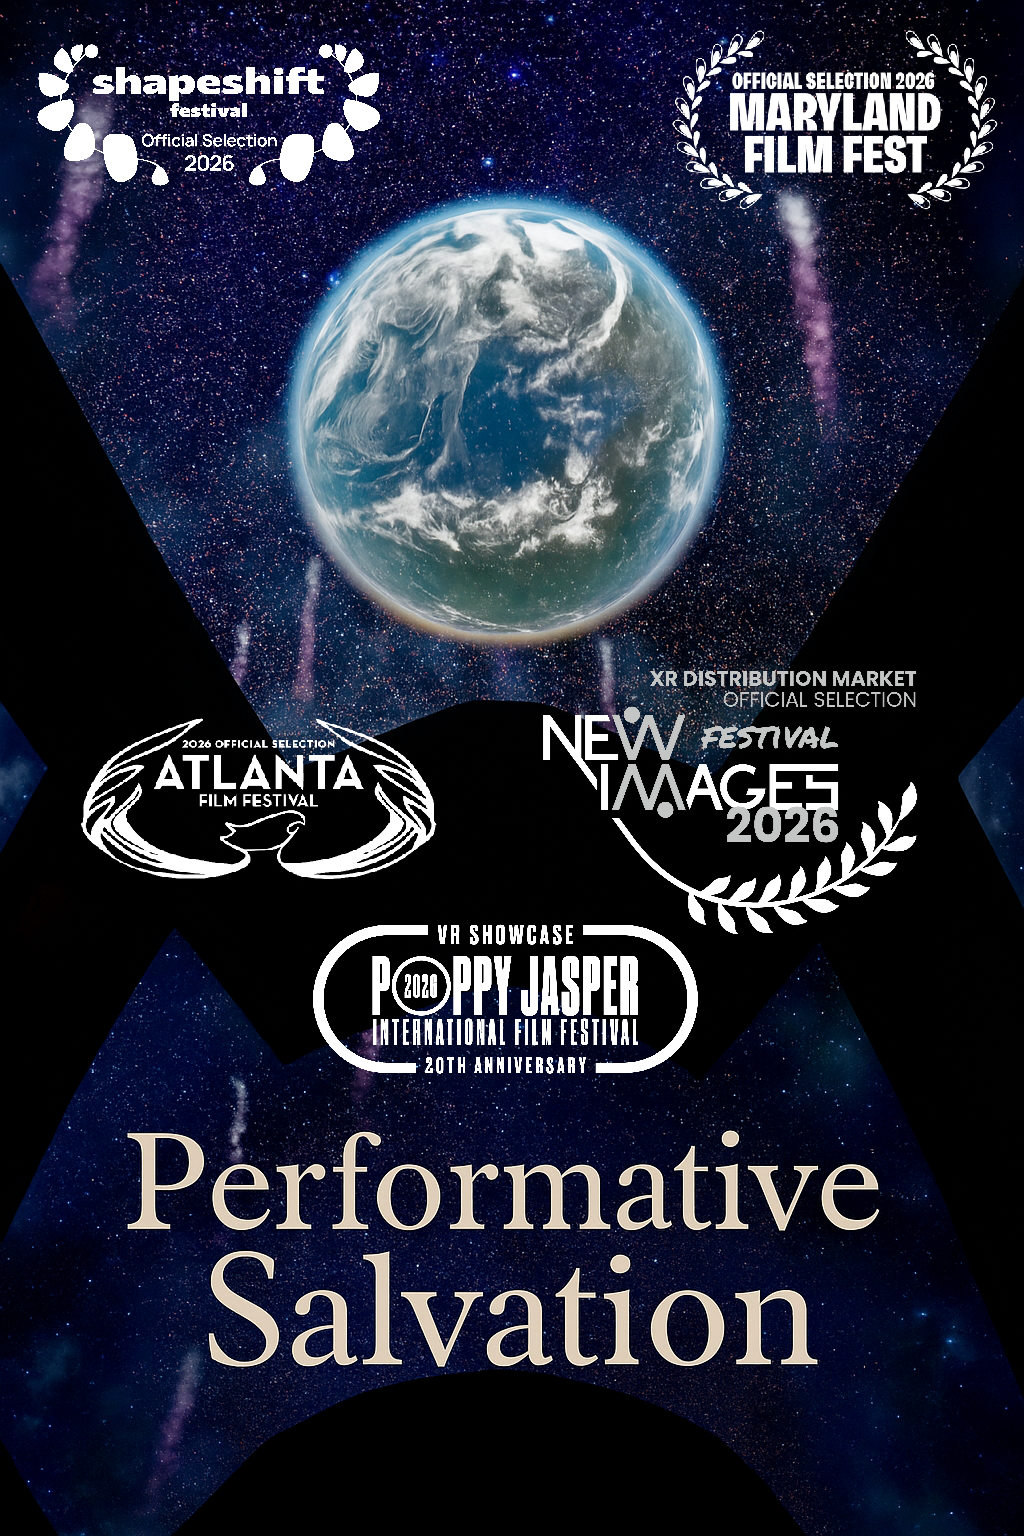
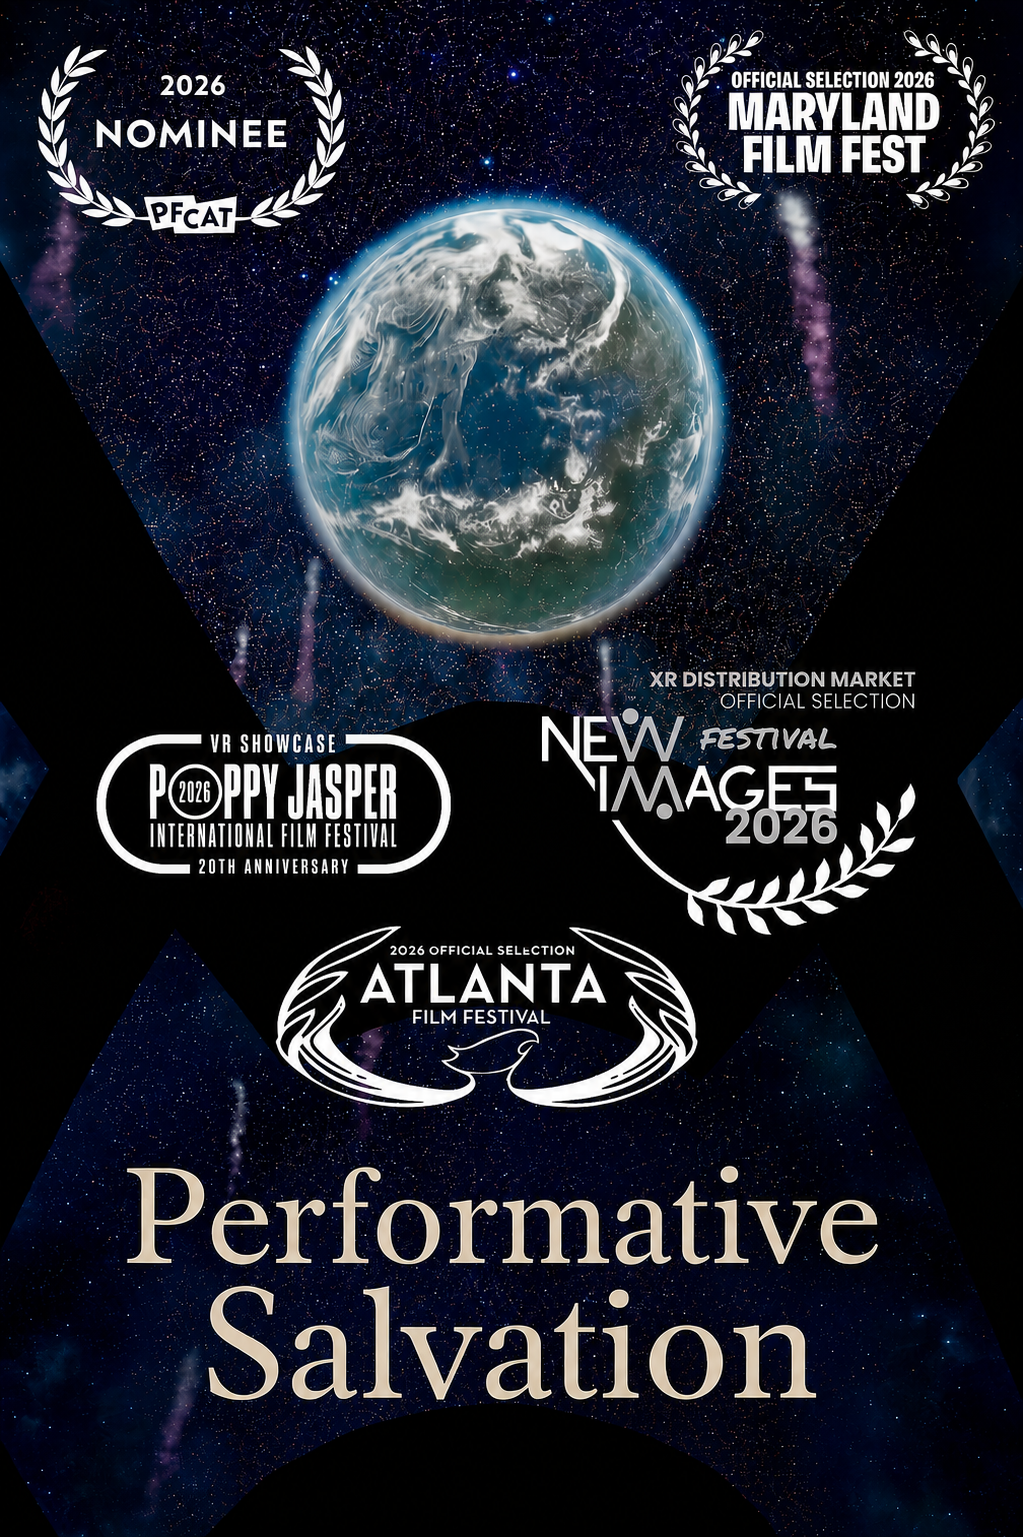
Add files via upload

Changed region(s): [[0.0303, 0.0, 0.9697, 1.0], [0.0, 0.5, 0.0303, 0.5312]]

diff --git a/script.js b/script.js
@@ -36,16 +36,15 @@ Alec continues to work on a variety of new projects. He lives in San Diego, Cali
     title: "Performative Salvation (2026)",
 
     description: `
-      Performative Salvation is an interactive VR film in which the audience participant is interrogated by a disgruntled, newly-conscious godlike AI debating whether humanity is salvageable.<br><br>
+      <b>Performative Salvation</b> is an interactive VR film in which the audience participant is interrogated by a disgruntled, newly-conscious godlike AI debating whether humanity is salvageable.<br><br>
 
 By answering the AI’s questions on humanity's existential challenges (with a touch of dark humor), it explores whether a relentless, nearly performative optimism is a necessary delusion helping us counter our self-destructive inclinations, and a more hopeful alternative to defeatism.<br><br>
 
-
 A solo project, Performative Salvation was created in Unity game engine and is playable on Meta Quest hardware, utilizing hand tracking, hand gesture interpretation, voice input, and text-to-speech. <br><br>
 
-Player responses are routed to OpenAI's API, where a custom prompt analyzes them for the level of "optimism". These analyses are routed back to the game runtime, affecting the AI character's response (and its likelihood to "spare" the Earth at the end..) <br><br>
+Player responses are routed to OpenAI's API, where a custom prompt analyzes them for the level of "optimism". Results are then re-routed to the experience, altering how the AI character replies (and its likelihood to "spare" the Earth at the ending). <br><br>
 
-Runtime: 6 mins
+Its runtime is 6 minutes and, apart from the synthetic voice, it does not feature generative AI.
 
     `,
 
@@ -70,6 +69,107 @@ Runtime: 6 mins
       },      
     ]
   },
+
+project11: {
+
+    type: "single",
+
+    title: "VarComp",
+
+    description: `
+      <b><i>VarComp</b></i> is an in-progress digital music composition/dance project based on a reimagining of musical composition dubbed "variable composition".<br><br> 
+
+Branching musical options are crafted by the arranger and later "performed" via movement, meaning each composition is co-composed (or composed in 2 distinct settings).<br><br> 
+
+VarComp distinguishes itself from procedurally generated music games and audio art installations in that a composer crafts the musical options available to the performer, for several "sections" of a composition.<br><br>
+
+They champion the mantra that creativity "thrives on constraints", while allowing those without knowledge of musical instruments to feel the joys of creating a piece of music through their actions in real time. <br><br>
+
+<b><i>VarComp's</b></i> core functionality is been built in the Unity game engine, and currently uses either VR or smartphone devices for motion tracking. Inputs are limited to arm motion, affording a simple set of rules to users.<br><br>
+
+I hope to further explore how different levels of movement complexity could benefit different use cases. For example, full motion tracking may be excellent for an art installation with a very open-ended musical composition, and phone gyro controls could be preferable for location-based augmented reality experiences in which multiple users build a musical composition in tandem.<br><br>
+
+VarComp's original intention was to be strictly a VR experience that would also merge visuals with music/movements, and I still see that as a direction I would love to explore over time. 
+
+    `,
+
+    media: [
+      {
+    	type: "youtube",
+    	embed: "https://www.youtube.com/embed/4B0NoXl1YMg ",
+    	size: "large"
+      },
+
+{
+    	type: "youtube",
+    	embed: "https://www.youtube.com/embed/2i17-5s-tbw",
+    	size: "large"
+      },
+
+      {
+	type: "image",
+    	src: "images/project11/1.jpg",
+    	size: "large"
+      },
+
+      {
+	type: "image",
+    	src: "images/project11/2.jpg",
+    	size: "large"
+      },
+
+      {
+	type: "image",
+    	src: "images/project11/3.png",
+    	size: "large"
+      },      
+    ]
+  },
+
+
+project12: {
+
+    type: "single",
+
+    title: "Digital Kook",
+
+    description: `
+      <b><i>Digital Kook</b></i> is an augmented-reality public art project reimagining the tradition of dressing up the iconic surfer statue in Cardiff/Encinitas as a form of participatory art.<br><br>
+
+Virtual outfits can be viewed on a mobile AR app, automatically appearing when the user points their phone toward the Kook. Users select from a collection outfits, some inspired by actual "greatest hits" known to the community and chronicled in the book "The Cardiff Kook and His Magic Carpet Ride".<br><br>
+
+The digital interventions are modeled in Blender and integrated into a Unity-based iOS and Android application using image tracking. Once the sculpture is recognized, the selected artwork appears digitally aligned with the physical statue and remains attached as the viewer moves around it.<br><br>
+
+The project will be presented during Encinitas Art Night as an interactive public artwork and will also be available as a mobile app for visitors to experience on-site. A community art workshop held during Art Night will invite participants to design their own digital decorations.
+
+    `,
+
+
+    media: [
+      
+      {
+    	type: "youtube",
+    	embed: "https://www.youtube.com/embed/Vtz-H8IpPv0",
+    	size: "large"
+      },
+      {
+	type: "image",
+    	src: "images/project12/1.jpg",
+    	size: "poster"
+      },
+      {
+	type: "image",
+    	src: "images/project12/2.jpg",
+    	size: "large"
+      },    
+      {
+	type: "image",
+    	src: "images/project12/3.jpg",
+    	size: "large"
+      },    
+    ]
+  },
+
 
   project2: {
 
@@ -252,11 +352,23 @@ cv: {
      Shapeshift Festival, Official Selection (VR), Sofia, Bulgaria, 2026<br>   
 </div>
     </p>
+<div class="big-text-for-exhibition-work">    
+     <em>Digital Kook</em><br>
+</div>
+<div class="cv-entry-exhibition">
+     City of Encinitas, California, Art Night, October 2026<br>
+</div>
+    </p>
+
 
     <h3>PANELS/TALKS/RECOGNITIONS</h3> 
+<p>
 <div class="cv-entry-panel">  
-     "Trained to Oppress: When AI Learns Power Too Well" (Panel), NewImages Festival, Paris, France, April 2026<br>
-     Gray Area Cultural Incubator, 2023 Cohort, San Francisco, CA
+     <em>"Trained to Oppress: When AI Learns Power Too Well"</em> (Panel), NewImages Festival, Paris, France, April 2026<br></p><p>
+     Gray Area Cultural Incubator, San Francisco, CA, 2023
+</p><p>
+     Engagement Guide, Institute of Contemporary Art, San Diego, CA, Fall 2026
+</p> 
 </div>
     </p>
     
@@ -267,25 +379,27 @@ cv: {
      MSc International Business and Politics, 2016
 </div>
     </p>
-    <p>
-<div class="cv-entry-education">
-     <em>SOAS University of London</em><br>
-     Independent Study, 2010-2011
-</div>
-    </p>
 <div class="cv-entry-education">
      <em>University of Wisconsin-Whitewater</em><br>
      BBA International Business, 2012
 </div>
     </p>
-
-<h3>CERTIFICATIONS & SKILLS</h3> <p>
-<div class="cv-entry-skill">
-     <em>XR Development in Unity</em>, Circuit Stream, 2021<br>
-     <em>Advanced XR Development in Unity</em>, XR Bootcamp, 2022<br>
-     <em>C# Programming in Unity</em>, Circuit Stream, 2022<br>
+<p>
+<div class="cv-entry-education">
+     <em>SOAS, University of London</em><br>
+     Independent Study in Political Science, 2010-2011
 </div>
-</p>
+    </p>
+
+<h3>CERTIFICATIONS & SKILLS</h3> 
+<div class="cv-entry-skill">
+     <em>- XR Development in Unity</em>, Circuit Stream, 2021<br>
+     <em>- Advanced XR Development in Unity</em>, XR Bootcamp, 2022<br>
+     <em>- C# Programming in Unity</em>, Circuit Stream, 2022<br>
+</div>
+
+<h3>LANGUAGES</h3> 
+     - English (native), French (fluent)
 
     `,
 
@@ -536,4 +650,4 @@ document
 
 /* INITIAL */
 
-renderProject("project1");
+renderProject("project11");

diff --git a/index.html b/index.html
@@ -44,6 +44,15 @@
             Performative Salvation
           </button>
 
+	  <button class="nav-item" data-project="project11">
+            VarComp
+          </button>
+
+
+	  <button class="nav-item" data-project="project12">
+            Digital Kook
+          </button>
+
           <button class="nav-item" data-project="project2">
             XR Prototyping
           </button>

diff --git a/style.css b/style.css
@@ -256,7 +256,7 @@ body {
 
 .cv-entry-panel {
 
-  line-height: 2.5;
+  line-height: 1.8;
 
   padding-left: 0.5rem;
 
